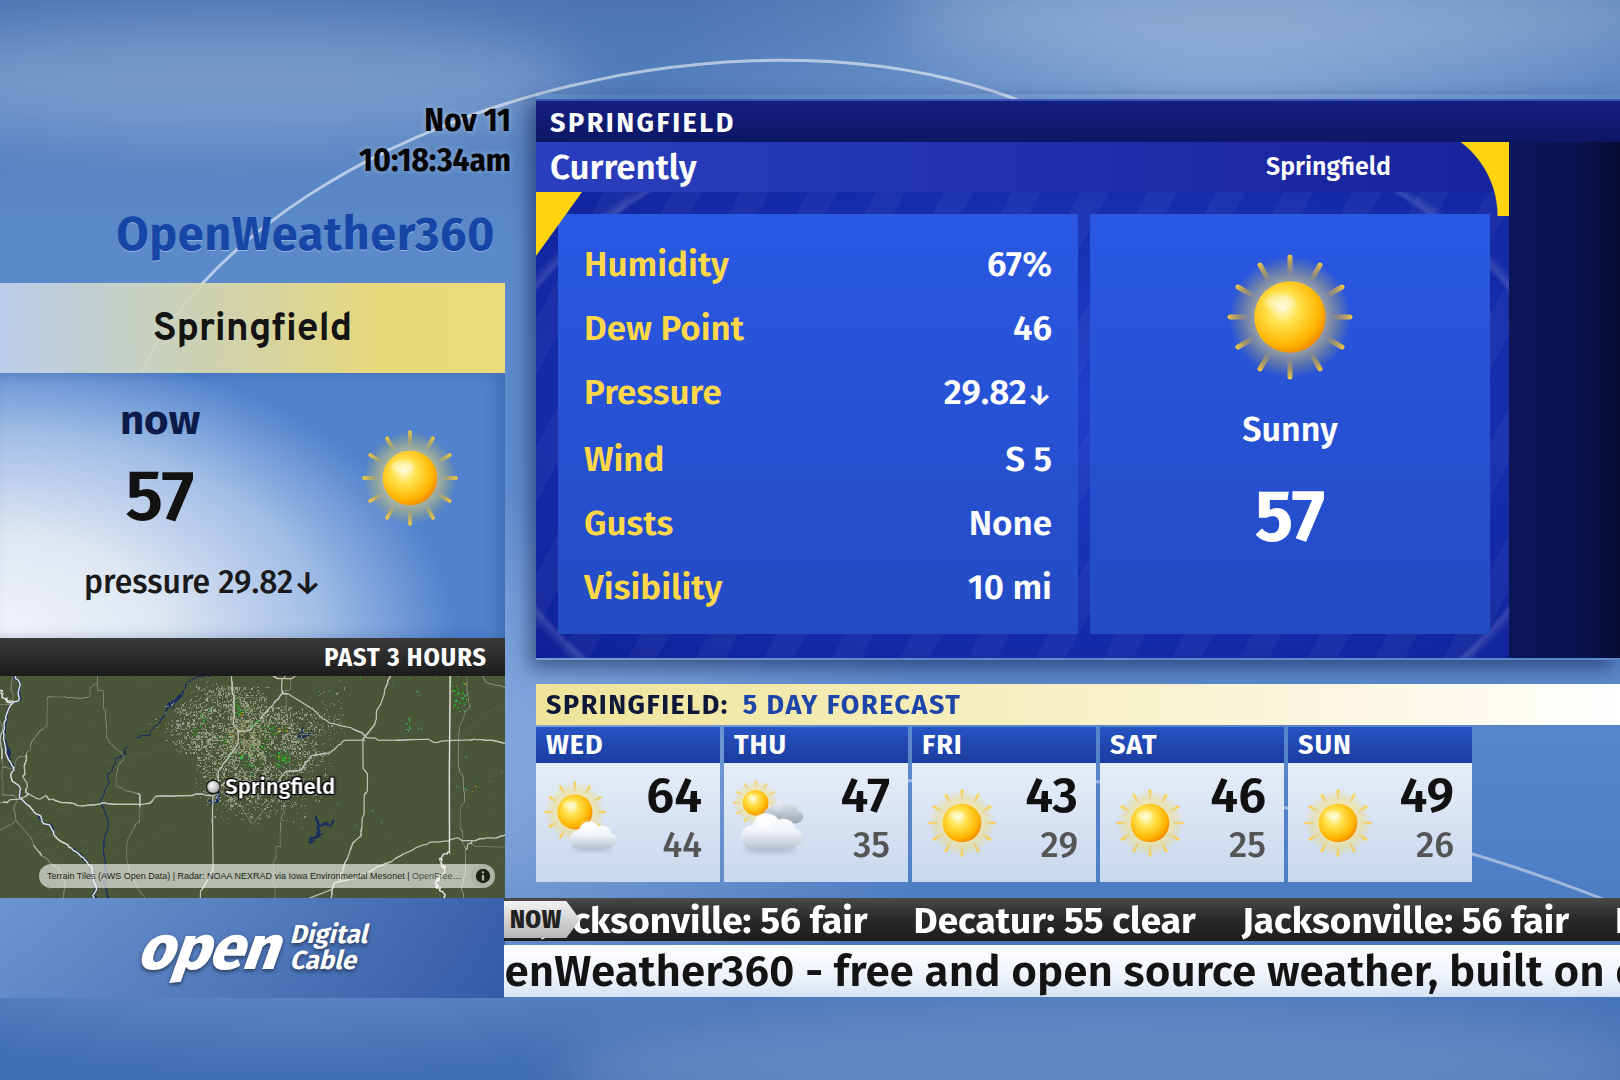
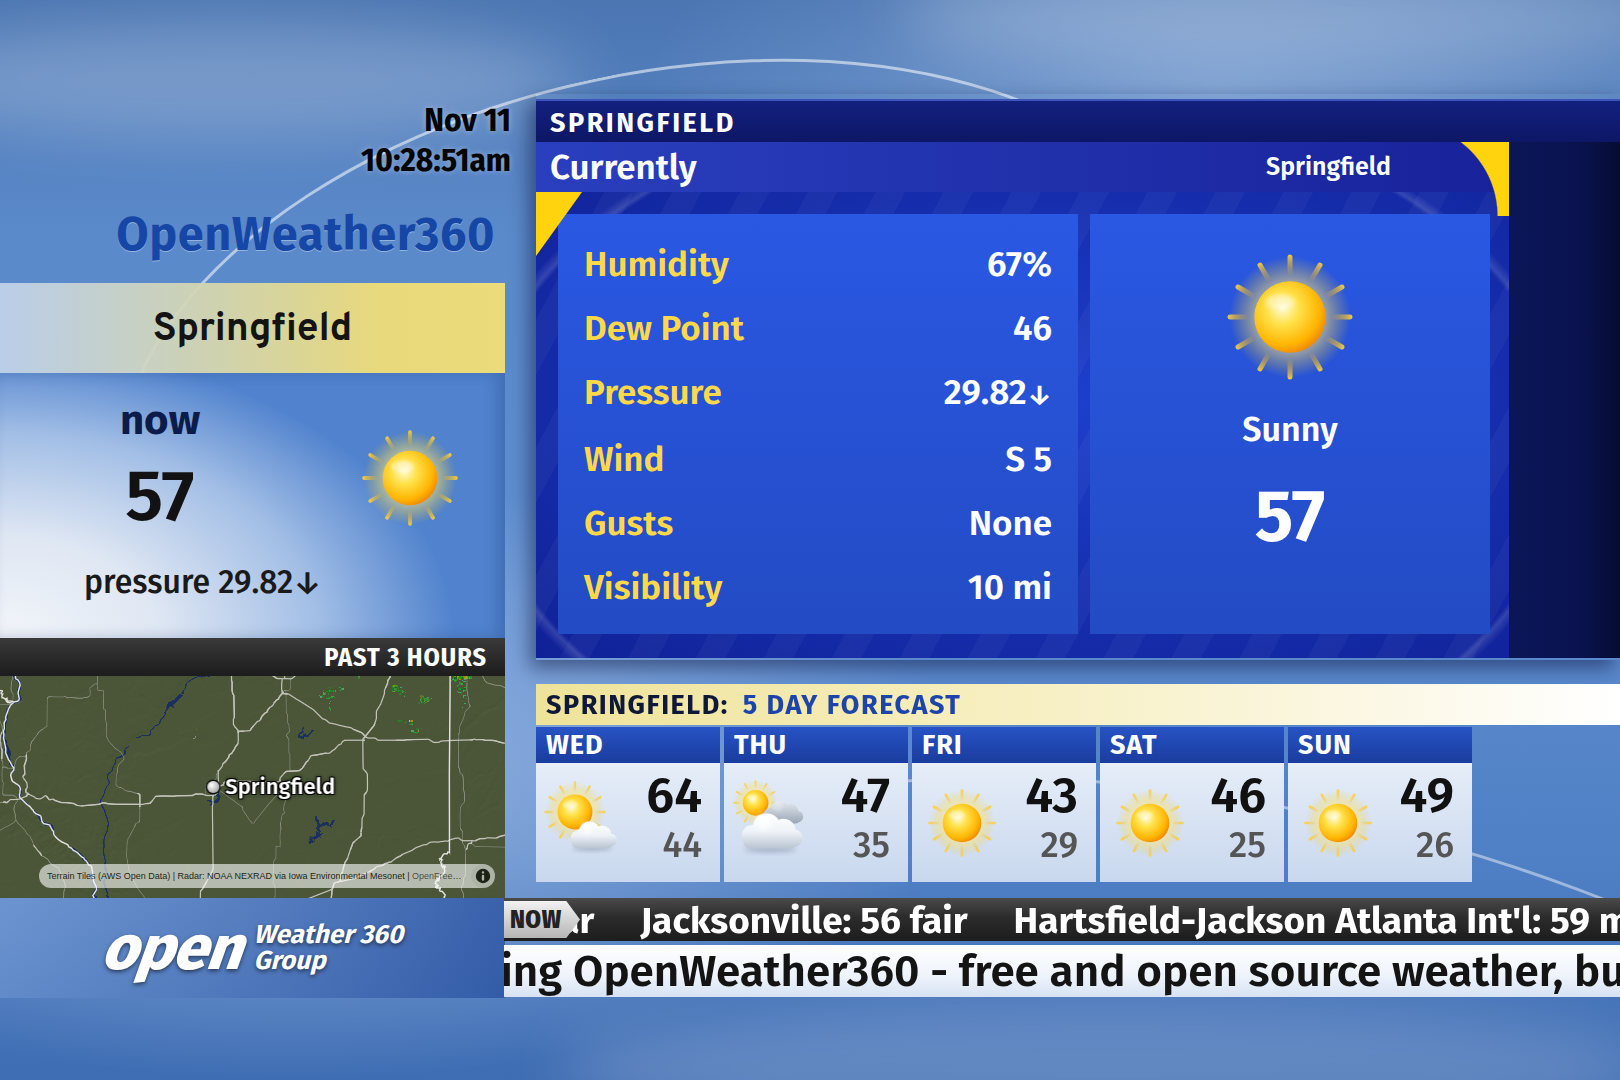
Provider branding: Open Weather 360 Group (default, screenshot)

diff --git a/app/js/config.js b/app/js/config.js
@@ -5,7 +5,7 @@
     extraCities: [],            // [{name, lat, lon}] shown as extra "Your Local Forecast" segments
     autoExtraCities: 2,         // when extraCities is empty, pick this many nearby towns automatically
     units: "imperial",          // imperial | metric
-    providerName: "Open Digital Cable",
+    providerName: "Open Weather 360 Group",
     providerLogo: "",           // optional image URL (e.g. file in app/ or http URL)
     wordmark: "OpenWeather360",
     look: "v2",                 // v2 | v1 | local  (see WS.LOOKS)
